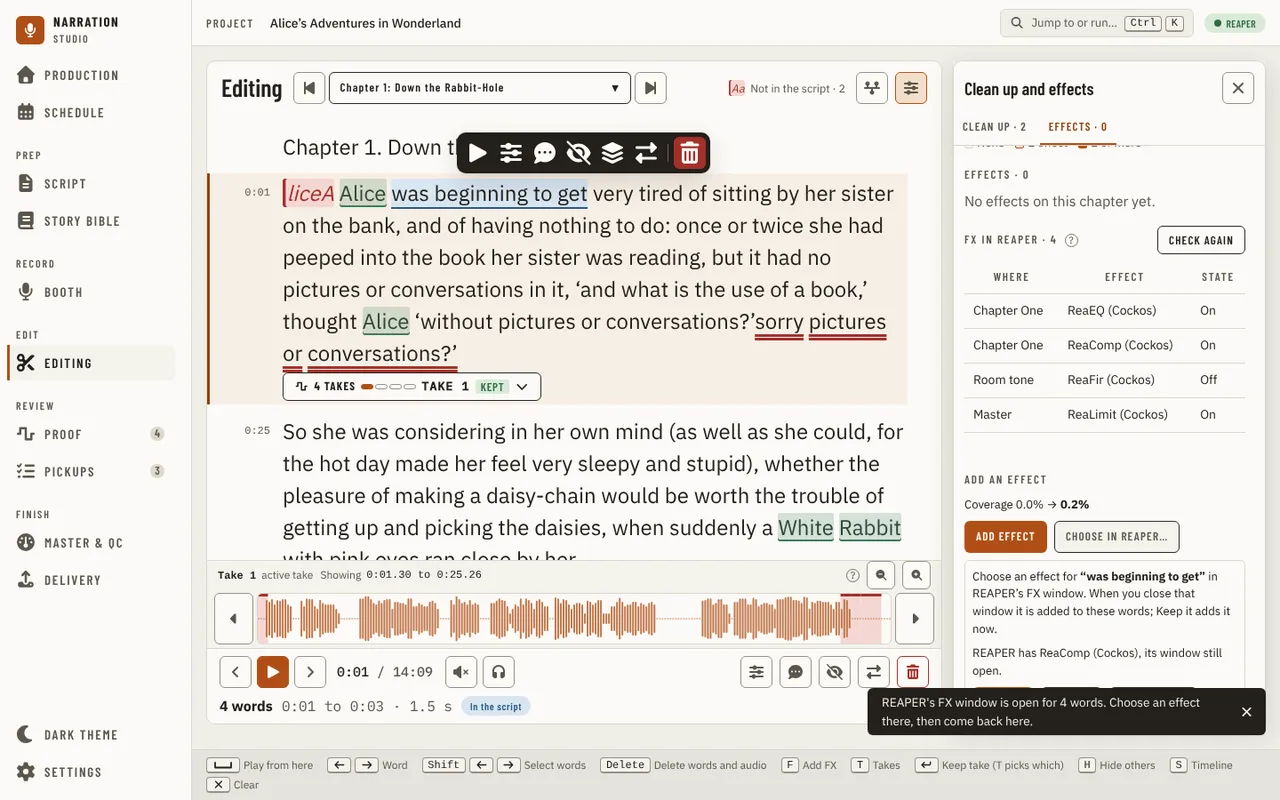
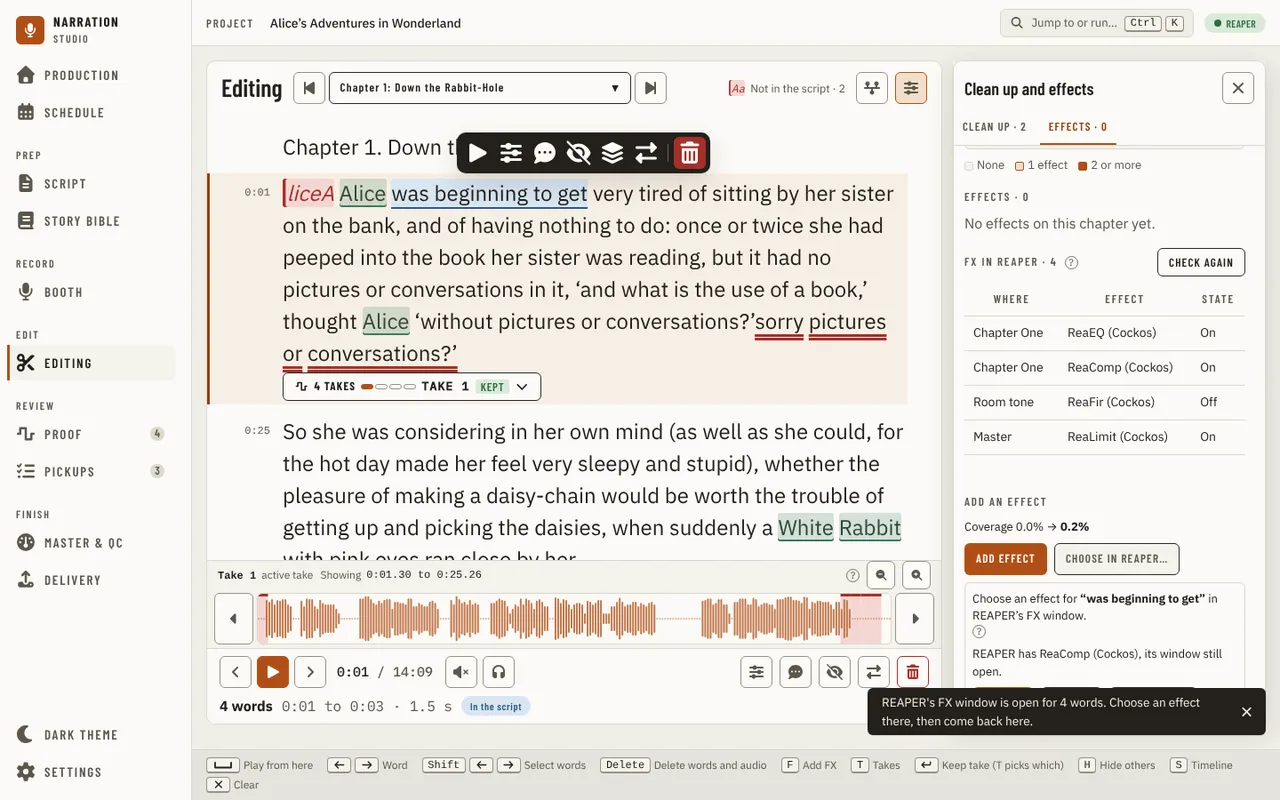
fix(ui): move the last in-flow how-to sentences into tooltips and a ?
Refs #2251, #2638

Claude-Session: https://claude.ai/code/session_01EBTykggjLPzPNywj58NnfN

Changed region(s): [[0.75, 0.1875, 0.9688, 0.5625], [0.75, 0.5938, 0.9688, 0.8438]]

diff --git a/src/studio/ui/tests/visual/prose/prose-inventory.ts b/src/studio/ui/tests/visual/prose/prose-inventory.ts
@@ -82,7 +82,7 @@ export const PROSE_INVENTORY: ProseEntry[] = [
     text: 'A take would not land in the project linked here. Open the linked project in …, or link the one that is open now.',
     class: 'error',
   },
-  { file: 'components/booth/record/RecordSetup.tsx', text: 'Link the open project asks you to choose the project file … has open.', class: 'instruction' },
+  { file: 'components/booth/record/RecordSetup.tsx', text: 'Link the open project asks you to choose the project file … has open.', class: 'overlay' },
   { file: 'components/booth/record/RecordSetup.tsx', text: 'Could not read whether a project file is linked. Press Check again.', class: 'error' },
   { file: 'components/connection/ChapterLinkDialog.tsx', text: 'is linked to …. Linking it here moves it.', class: 'overlay' },
   { file: 'components/connection/ChapterLinkDialog.tsx', text: 'Or have … add a new track for this chapter, named after it, and link it:', class: 'overlay' },
@@ -109,7 +109,7 @@ export const PROSE_INVENTORY: ProseEntry[] = [
     text: "Matching changes each item's volume in REAPER to bring it onto target, in one undo step.",
     class: 'overlay',
   },
-  { file: 'components/editing/EditingCheckPanel.tsx', text: 'A met or not-met status shows only while this chapter is in Editing.', class: 'explanation' },
+  { file: 'components/editing/EditingCheckPanel.tsx', text: 'A met or not-met status shows only while this chapter is in Editing.', class: 'overlay' },
   { file: 'components/editing/EditingCheckPanel.tsx', text: 'Another chapter is being checked. Check this one when it finishes.', class: 'overlay' },
   {
     file: 'components/editing/EditingCheckPanel.tsx',
@@ -120,8 +120,8 @@ export const PROSE_INVENTORY: ProseEntry[] = [
   { file: 'components/editing/cleanup/CleanupPreview.tsx', text: 'Hidden on …; nothing is deleted.', class: 'state' },
   {
     file: 'components/editing/effects/ChooseInDaw.tsx',
-    text: 'Choose an effect for … in …’s FX window. When you close that window it is added to these words; Keep it adds it now.',
-    class: 'instruction',
+    text: 'When you close that window the effect is added to these words; Keep it adds it now.',
+    class: 'overlay',
   },
   { file: 'components/editing/flags/FlagCard.tsx', text: 'reads the line twice. The second read starts at ….', class: 'state' },
   {
@@ -145,7 +145,7 @@ export const PROSE_INVENTORY: ProseEntry[] = [
   {
     file: 'components/editing/stack/useStackRetries.tsx',
     text: 'Hide … (…) of this passage. They are muted and put out of the way, never deleted, and Undo brings them back.',
-    class: 'explanation',
+    class: 'overlay',
   },
   {
     file: 'components/editing/takes/TakeCompare.tsx',
@@ -189,11 +189,6 @@ export const PROSE_INVENTORY: ProseEntry[] = [
     file: 'components/editing/voicesample/VoiceSampleDialog.tsx',
     text: 'Copies the raw recording, as it was before editing, into this project. Nothing leaves your computer.',
     class: 'overlay',
-  },
-  {
-    file: 'components/engine/AudacityLinkCard.tsx',
-    text: 'Unlinking leaves the link label in the Audacity project; delete it there if you like.',
-    class: 'explanation',
   },
   {
     file: 'components/engine/ChapterSyncConsentDialog.tsx',
@@ -276,7 +271,6 @@ export const PROSE_INVENTORY: ProseEntry[] = [
     text: 'Choose which lane plays for a line. A lane plays across its whole track, so choosing one silences the other lanes of that track everywhere, not only for this line. … changes nothing else, and Undo in REAPER puts the previous lanes back.',
     class: 'overlay',
   },
-  { file: 'components/layout/HistoryPanel.tsx', text: 'History keeps the newest … changes; older changes can no longer be undone.', class: 'explanation' },
   { file: 'components/layout/NeedManuscript.tsx', text: 'This project has no manuscript yet. Import one to begin.', class: 'empty' },
   {
     file: 'components/layout/NotFoundPage.tsx',
@@ -575,7 +569,6 @@ export const PROSE_INVENTORY: ProseEntry[] = [
     text: 'You confirmed the move from … to … on …. A check since then is not met (below). Nothing has changed: the chapter stays in … unless you revert it.',
     class: 'state',
   },
-  { file: 'components/stages/StageEvidence.tsx', text: 'Reads the evidence again; it starts no check.', class: 'explanation' },
   { file: 'components/stages/StageEvidence.tsx', text: 'Based on the saved REAPER project, file modified … …. Read ….', class: 'state' },
   { file: 'components/storybible/AppearsIn.tsx', text: 'Not listed yet. Build the Story Bible again to list the chapters.', class: 'empty' },
   {

diff --git a/src/studio/ui/src/components/engine/AudacityLinkCard.tsx b/src/studio/ui/src/components/engine/AudacityLinkCard.tsx
@@ -5,6 +5,7 @@ import { usePort } from '../../ports/usePort';
 import { startDaw } from '../connection/startDaw';
 import { Button } from '../primitives/Button';
 import { StatusBadge } from '../primitives/StatusBadge';
+import { TooltipTarget } from '../primitives/Tooltip';
 import type { Notify } from '../primitives/Toast';
 import { audacityTitle, audacityTone, heardText } from './audacityLinkText';
 import type { AudacityLinkView } from './useAudacityLink';
@@ -60,7 +61,6 @@ export function AudacityLinkCard({ view, notify }: { view: AudacityLinkView; not
 
   const heard = link.state === 'answering' ? null : heardText(link, receivedAt, now);
   const stepsOpen = link.steps.some((step) => !step.done);
-  const answering = link.state === 'answering' || link.state === 'no_project';
   const startAudacity = async () => {
     const started = await startDaw({ project, system }, 'Audacity');
     if (started.ok) notify('Started Audacity. The app connects when it answers.');
@@ -114,17 +114,16 @@ export function AudacityLinkCard({ view, notify }: { view: AudacityLinkView; not
           {link.linkedFile ? 'Change Audacity project file' : 'Choose Audacity project file'}
         </Button>
         {link.linked && (
-          <Button variant="secondary" size="sm" disabled={busy !== undefined} onClick={() => void run('unlink', () => port.audacityUnlink())}>
-            Unlink
-          </Button>
+          <TooltipTarget text="Leaves the link label in the Audacity project">
+            <Button variant="secondary" size="sm" disabled={busy !== undefined} onClick={() => void run('unlink', () => port.audacityUnlink())}>
+              Unlink
+            </Button>
+          </TooltipTarget>
         )}
         <Button variant="secondary" size="sm" disabled={busy !== undefined} onClick={() => void run('check', () => check())}>
           {busy === 'check' ? 'Checking…' : 'Check again'}
         </Button>
       </div>
-      {link.linked && answering && (
-        <span className="text-[var(--text-muted)]">Unlinking leaves the link label in the Audacity project; delete it there if you like.</span>
-      )}
       {(problem ?? error) && (
         <p role="alert" className="text-[var(--danger-text)]">
           {problem ?? error}

diff --git a/src/studio/ui/src/components/editing/effects/ChooseInDaw.tsx b/src/studio/ui/src/components/editing/effects/ChooseInDaw.tsx
@@ -1,6 +1,7 @@
 import { useEffect, useState } from 'react';
 import type { ChooseState } from '../range/fx/useChooseInDaw';
 import { Button } from '../../primitives/Button';
+import { HelpButton } from '../../primitives/HelpButton';
 
 /** How long without an answer before the panel says it cannot tell what is chosen, in milliseconds. */
 export const CHOOSE_QUIET_MS = 6000;
@@ -40,9 +41,11 @@ export function ChooseInDaw({
       data-choose-in-daw
       className="flex flex-col gap-2 rounded-[var(--radius-button)] border border-[var(--border)] p-2 text-[length:var(--font-size-sm)]"
     >
-      <p className="m-0">
-        Choose an effect for <b className="[overflow-wrap:anywhere]">“{text}”</b> in {dawName}’s FX window. When you close that window it is added to these
-        words; Keep it adds it now.
+      <p className="m-0 flex flex-wrap items-center gap-x-2">
+        <span>
+          Choose an effect for <b className="[overflow-wrap:anywhere]">“{text}”</b> in {dawName}’s FX window.
+        </span>
+        <HelpButton label="About choosing in the FX window">When you close that window the effect is added to these words; Keep it adds it now.</HelpButton>
       </p>
       <p className="m-0" role="status" aria-live="polite">
         {heardAt === null

diff --git a/src/studio/ui/src/components/stages/StageEvidence.tsx b/src/studio/ui/src/components/stages/StageEvidence.tsx
@@ -4,6 +4,7 @@ import { chapterName, context } from '../../chapterName';
 import type { ManuscriptChapter, StageChapterRecommendation, StageEvidence as Evidence, StageSignal } from '../../types';
 import { Button } from '../primitives/Button';
 import { InsetCard } from '../primitives/InsetCard';
+import { TooltipTarget } from '../primitives/Tooltip';
 import { SlideOver } from '../primitives/SlideOver';
 import { formatWhen, paragraphRefs } from '../production/recordingCheckText';
 import type { StageDecision, StagesState } from './useStageRecommendations';
@@ -139,12 +140,11 @@ function EvidenceBody({
         ))}
       </div>
       <div className="flex flex-wrap items-center gap-2 border-t border-[var(--border)] pt-3">
-        <Button variant="secondary" pending={phase === 'loading'} onClick={onCheckNow}>
-          Check now
-        </Button>
-        <span className="text-xs" style={{ color: 'var(--text-muted)' }}>
-          Reads the evidence again; it starts no check.
-        </span>
+        <TooltipTarget text="Reads the evidence again, and starts no check">
+          <Button variant="secondary" pending={phase === 'loading'} onClick={onCheckNow}>
+            Check now
+          </Button>
+        </TooltipTarget>
       </div>
     </div>
   );

diff --git a/src/studio/ui/src/components/layout/HistoryPanel.test.tsx b/src/studio/ui/src/components/layout/HistoryPanel.test.tsx
@@ -124,7 +124,7 @@ describe('HistoryPanel', () => {
     expect(within(dialog).queryByText(/older changes can no longer be undone/)).toBeNull();
     await act(async () => void (await add('One more', false, ['more'])));
     await waitFor(() => expect(within(dialog).getAllByRole('listitem')).toHaveLength(JOURNAL_LIMIT));
-    expect(within(dialog).getByText(`History keeps the newest ${JOURNAL_LIMIT} changes; older changes can no longer be undone.`)).toBeTruthy();
+    expect(within(dialog).getByText(`History keeps the newest ${JOURNAL_LIMIT} changes.`)).toBeTruthy();
     await act(async () => void (await add('Past the limit', false, ['past'])));
     await waitFor(() => expect(within(dialog).queryByText('Change 0')).toBeNull());
     expect(within(dialog).getAllByRole('listitem')).toHaveLength(JOURNAL_LIMIT);

diff --git a/src/studio/ui/src/components/layout/HistoryPanel.tsx b/src/studio/ui/src/components/layout/HistoryPanel.tsx
@@ -40,9 +40,7 @@ function HistoryPanel({ journal, dawName }: { journal: HistoryJournal; dawName: 
     // else (alignment audit R4SM-19, XSL-13).
     <div className="flex flex-col gap-3">
       {rows && rows.length === 0 ? <p>Nothing to undo yet.</p> : null}
-      {rows && rows.length >= JOURNAL_LIMIT ? (
-        <p className="text-[var(--text-muted)]">{`History keeps the newest ${JOURNAL_LIMIT} changes; older changes can no longer be undone.`}</p>
-      ) : null}
+      {rows && rows.length >= JOURNAL_LIMIT ? <p className="text-[var(--text-muted)]">{`History keeps the newest ${JOURNAL_LIMIT} changes.`}</p> : null}
       {rows && rows.length > 0 ? (
         <ul aria-label="Changes, newest first" className="flex flex-col gap-3">
           {rows.map((row) => {

diff --git a/src/studio/ui/tests/visual/inFlowProse.test.ts b/src/studio/ui/tests/visual/inFlowProse.test.ts
@@ -9,7 +9,7 @@ import { PROSE_INVENTORY } from './prose/prose-inventory';
 // manual under the Editing waveform (#2251); this file makes that a class guard rather than one fix.
 
 /** `instruction` and `explanation` entries in the inventory: drawn in a page's flow, so debt. The number may only go down. */
-const MAX_IN_FLOW_INSTRUCTIONS = 21;
+const MAX_IN_FLOW_INSTRUCTIONS = 14;
 /** Settings rows whose always-shown description is longer than one short line (60 characters). The number may only go down. */
 const MAX_LONG_SETTING_DESCRIPTIONS = 0;
 /** A hover or focus hint is a few words on one line: at most this many characters and one sentence. */

diff --git a/docs/guides/using-the-app/editing.md b/docs/guides/using-the-app/editing.md
@@ -265,7 +265,7 @@ pick one there and click **Add**. If the item already had plug-ins, REAPER shows
 in it. You can add more than one, and set them up there as you would any plug-in in REAPER.
 
 While REAPER's window is open, the Effects tab shows what REAPER has chosen so far and checks every second or two, and when
-you come back to the app. Close REAPER's FX window when you are done, and the app adds what you chose to the words as an
+you come back to the app. Close REAPER's FX window when you are done (the **?** in the panel says so), and the app adds what you chose to the words as an
 effect, named after the plug-ins. **Keep it** adds it straight away with the window still open. **Cancel** takes off
 anything you chose and joins the item back together, and the app records nothing. **Check again** asks REAPER now. If
 REAPER stops answering, the panel says it cannot tell what is chosen and when REAPER last answered, rather than showing an
